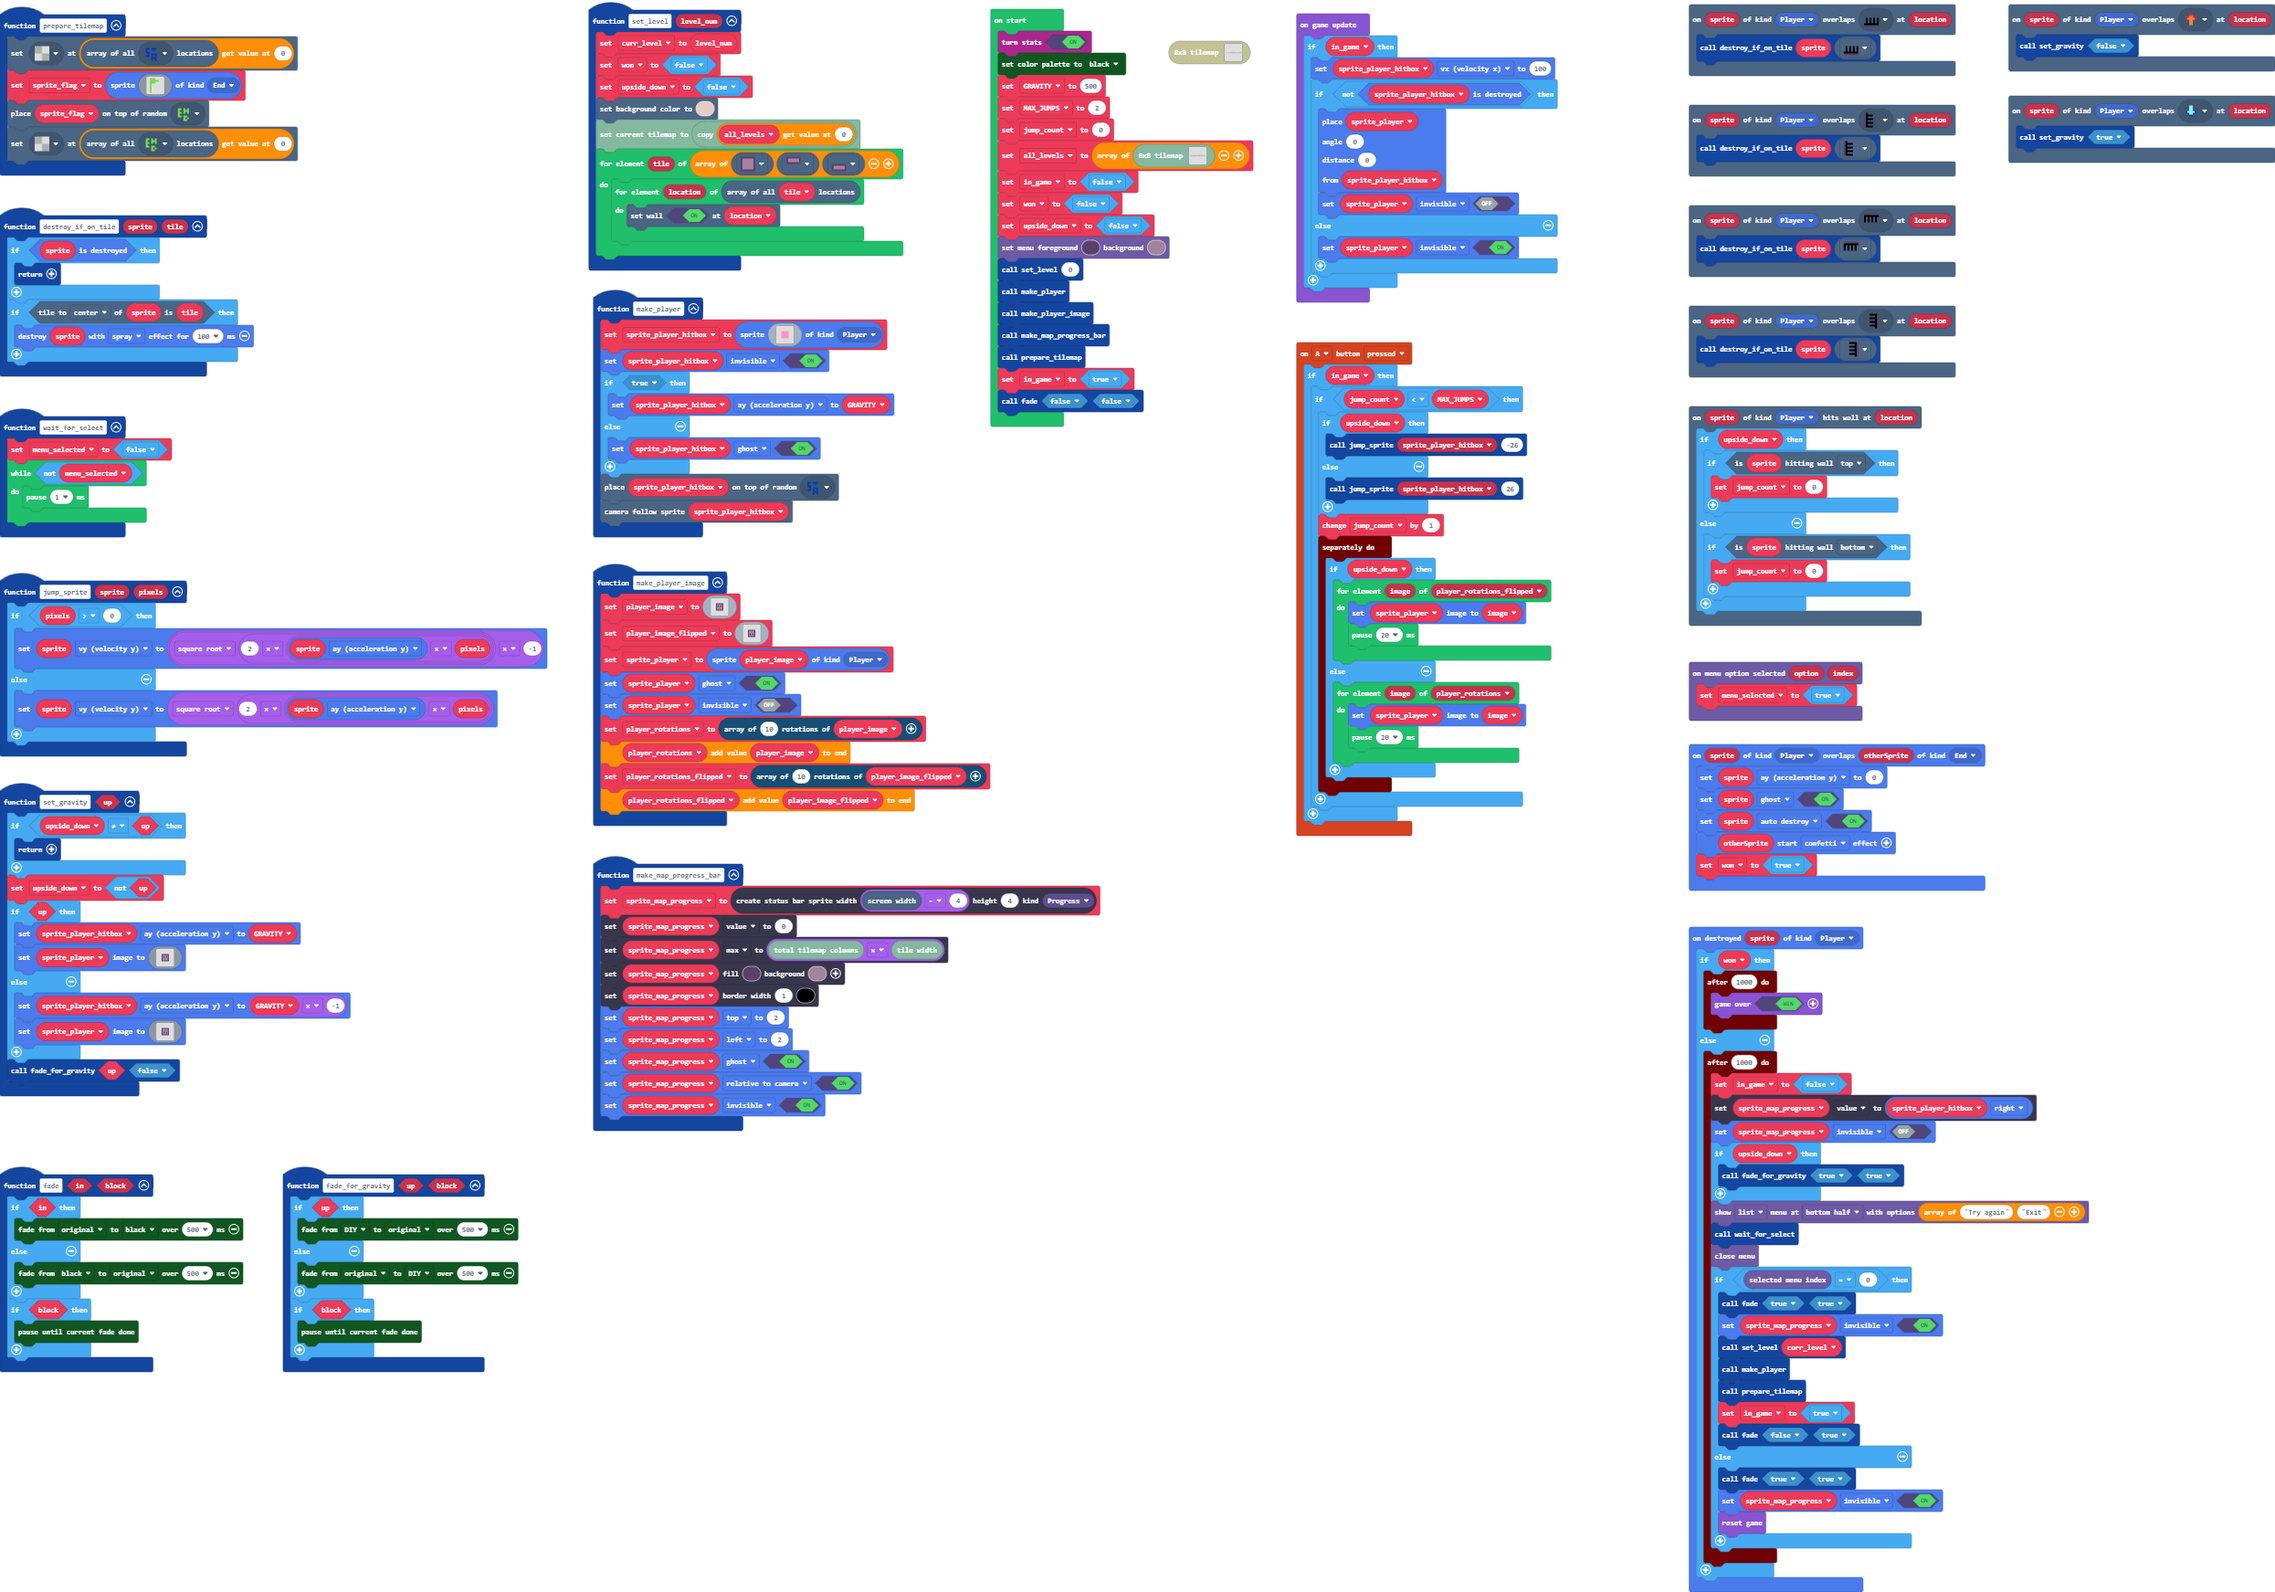
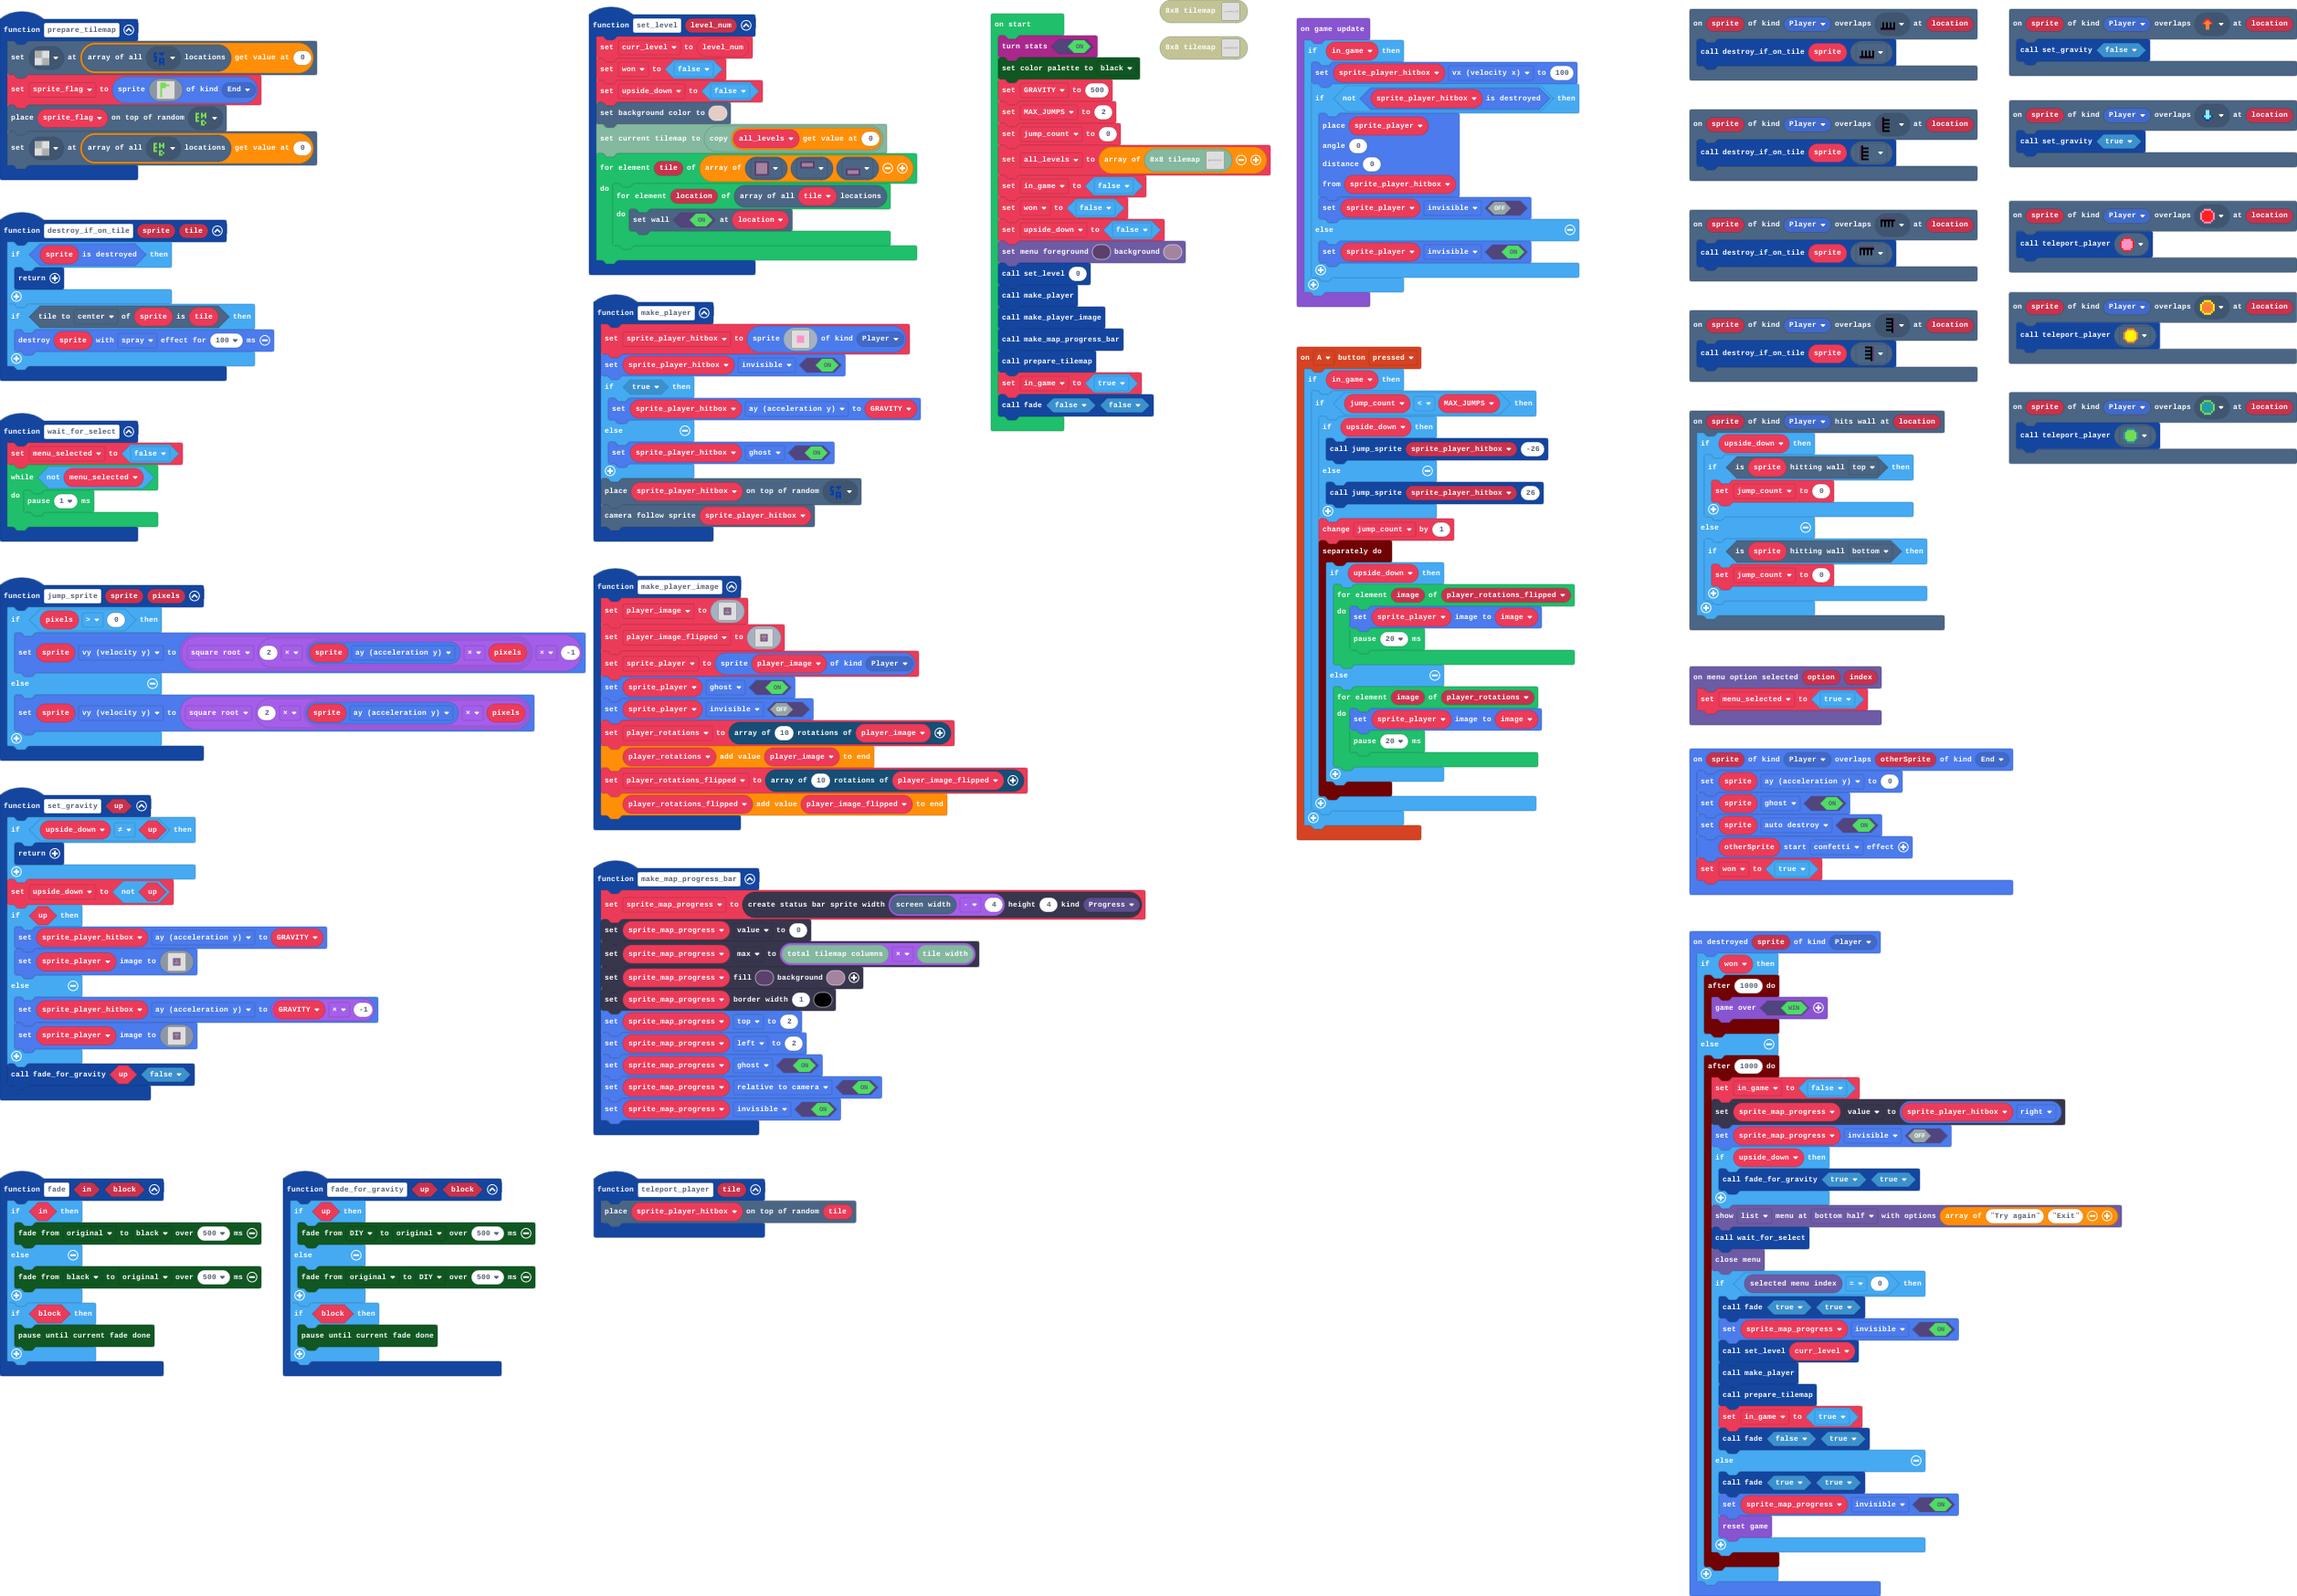
Make third level

Changed region(s): [[0.4328, 0.0, 1.0, 1.0], [0.0, 0.0, 0.4946, 0.8675]]

diff --git a/tilemap.g.ts b/tilemap.g.ts
@@ -28,6 +28,18 @@ namespace myTiles {
     export const tile11 = image.ofBuffer(hex``);
     //% fixedInstance jres blockIdentity=images._tile
     export const tile12 = image.ofBuffer(hex``);
+    //% fixedInstance jres blockIdentity=images._tile
+    export const tile13 = image.ofBuffer(hex``);
+    //% fixedInstance jres blockIdentity=images._tile
+    export const tile14 = image.ofBuffer(hex``);
+    //% fixedInstance jres blockIdentity=images._tile
+    export const tile15 = image.ofBuffer(hex``);
+    //% fixedInstance jres blockIdentity=images._tile
+    export const tile16 = image.ofBuffer(hex``);
+    //% fixedInstance jres blockIdentity=images._tile
+    export const tile17 = image.ofBuffer(hex``);
+    //% fixedInstance jres blockIdentity=images._tile
+    export const tile19 = image.ofBuffer(hex``);
 
     helpers._registerFactory("tilemap", function(name: string) {
         switch(helpers.stringTrim(name)) {
@@ -141,6 +153,24 @@ namespace myTiles {
 ...............................................................................................................................................................................................................................................................
 ...............................................................................................................................................................................................................................................................
 `, [myTiles.transparency8,myTiles.tile1,myTiles.tile2,myTiles.tile4,myTiles.tile5,myTiles.tile6,myTiles.tile7,myTiles.tile11,myTiles.tile12,myTiles.tile8,myTiles.tile9], TileScale.Eight);
+            case "level_3":
[1 lines of base64/hex data omitted]
+...............................................................................................................................................................................................................................................................
+...............................................................................................................................................................................................................................................................
+...............................................................................................................................................................................................................................................................
+...............................................................................................................................................................................................................................................................
+...............................................................................................................................................................................................................................................................
+...............................................................................................................................................................................................................................................................
+...............................................................................................................................................................................................................................................................
+...............................................................................................................................................................................................................................................................
+...............................................................................................................................................................................................................................................................
+...............................................................................................................................................................................................................................................................
+...............................................................................................................................................................................................................................................................
+...............................................................................................................................................................................................................................................................
+...............................................................................................................................................................................................................................................................
+...............................................................................................................................................................................................................................................................
+...............................................................................................................................................................................................................................................................
+`, [myTiles.transparency8,myTiles.tile1,myTiles.tile7,myTiles.tile2,myTiles.tile4,myTiles.tile6,myTiles.tile9,myTiles.tile13,myTiles.tile14,myTiles.tile15,myTiles.tile16,myTiles.tile5,myTiles.tile11,myTiles.tile10,myTiles.tile8,myTiles.tile17,myTiles.tile19], TileScale.Eight);
         }
         return null;
     })
@@ -173,6 +203,18 @@ namespace myTiles {
             case "tile11":return tile11;
             case "down_gravity":
             case "tile12":return tile12;
+            case "teleport_1_from0":
+            case "tile13":return tile13;
+            case "teleport_1_to0":
+            case "tile14":return tile14;
+            case "teleport_2_from":
+            case "tile15":return tile15;
+            case "teleport_2_to":
+            case "tile16":return tile16;
+            case "teleport_3_from":
+            case "tile17":return tile17;
+            case "teleport_3_to":
+            case "tile19":return tile19;
         }
         return null;
     })

diff --git a/main.ts b/main.ts
@@ -46,6 +46,9 @@ function set_gravity (up: boolean) {
 scene.onOverlapTile(SpriteKind.Player, assets.tile`spikes_left`, function (sprite, location) {
     destroy_if_on_tile(sprite, assets.tile`spikes_left`)
 })
+function teleport_player (tile: Image) {
+    tiles.placeOnRandomTile(sprite_player_hitbox, tile)
+}
 function set_level (level_num: number) {
     curr_level = level_num
     won = false
@@ -82,6 +85,9 @@ controller.A.onEvent(ControllerButtonEvent.Pressed, function () {
             })
         }
     }
+})
+scene.onOverlapTile(SpriteKind.Player, assets.tile`teleport_2_from`, function (sprite, location) {
+    teleport_player(assets.tile`teleport_2_to`)
 })
 function prepare_tilemap () {
     tiles.setTileAt(tiles.getTilesByType(assets.tile`start_tile`)[0], assets.tile`transparency8`)
@@ -125,6 +131,9 @@ function make_player () {
     tiles.placeOnRandomTile(sprite_player_hitbox, assets.tile`start_tile`)
     scene.cameraFollowSprite(sprite_player_hitbox)
 }
+scene.onOverlapTile(SpriteKind.Player, assets.tile`teleport_1_from0`, function (sprite, location) {
+    teleport_player(assets.tile`teleport_1_to0`)
+})
 scene.onOverlapTile(SpriteKind.Player, assets.tile`spikes_right0`, function (sprite, location) {
     destroy_if_on_tile(sprite, assets.tile`spikes_right0`)
 })
@@ -204,6 +213,9 @@ sprites.onDestroyed(SpriteKind.Player, function (sprite) {
         })
     }
 })
+scene.onOverlapTile(SpriteKind.Player, assets.tile`teleport_3_from`, function (sprite, location) {
+    teleport_player(assets.tile`teleport_3_to`)
+})
 blockMenu.onMenuOptionSelected(function (option, index) {
     menu_selected = true
 })
@@ -231,7 +243,7 @@ color.Black
 GRAVITY = 500
 MAX_JUMPS = 2
 jump_count = 0
-all_levels = [tiles.createSmallMap(tilemap`level_2`)]
+all_levels = [tiles.createSmallMap(tilemap`level_3`)]
 in_game = false
 won = false
 upside_down = false
